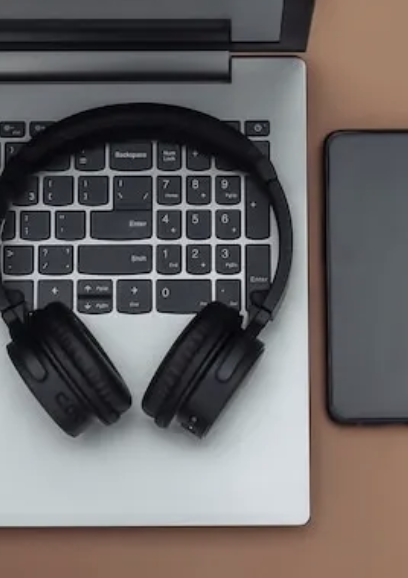
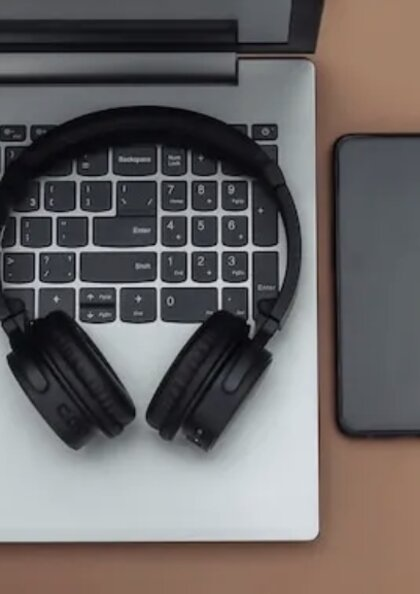
working carosel, dots need help

diff --git a/_layouts/default.html b/_layouts/default.html
@@ -1206,7 +1206,7 @@
             margin: var(--carousel-dots-margin) auto;
             width: 100%;
             position: absolute;
-            bottom: -30px;
+            bottom: -55px;
             left: 0;
             right: 0;
             z-index: 20;
@@ -1227,7 +1227,7 @@
           /* Projects Button */
           .projects-button-container {
             text-align: center;
-            margin: var(--button-margin-top) 0 var(--button-margin-bottom);
+            margin: calc(var(--button-margin-top) + 2rem) 0 var(--button-margin-bottom);
           }
           
           .button {

diff --git a/_plugins/image_resizer.rb b/_plugins/image_resizer.rb
@@ -1,0 +1,100 @@
+require 'fileutils'
+
+# This class handles image resizing during the Jekyll build process
+module Jekyll
+  class ImageResizer
+    # Configuration constants
+    TARGET_WIDTH = 420  # Carousel image width from CSS
+    TARGET_HEIGHT = 594 # Carousel image height from CSS
+    QUALITY = 85        # Output image quality (0-100)
+    
+    # Initialize with the Jekyll site
+    def initialize(site)
+      @site = site
+      @source_dir = File.join(site.source, 'assets', 'images', 'thumbnails')
+      @has_imagemagick = system('which convert > /dev/null 2>&1') || system('where convert > /dev/null 2>&1')
+    end
+    
+    # Process all images in the thumbnails directory
+    def process_images
+      # Skip if source directory doesn't exist
+      return unless Dir.exist?(@source_dir)
+      
+      if @has_imagemagick
+        process_with_imagemagick
+      else
+        log_warning("ImageMagick not found, skipping image resizing. Install ImageMagick for auto thumbnail resizing.")
+        log_warning("Hint: brew install imagemagick (on Mac) or visit https://imagemagick.org/script/download.php")
+      end
+    end
+    
+    private
+    
+    # Process images using ImageMagick via mini_magick gem
+    def process_with_imagemagick
+      begin
+        require 'mini_magick'
+      rescue LoadError
+        log_error("mini_magick gem not found, skipping image resizing")
+        return
+      end
+      
+      log_info("Starting thumbnail processing with ImageMagick")
+      
+      # Process each image in the thumbnails directory
+      Dir.glob(File.join(@source_dir, '*.{jpg,jpeg,png,gif}')).each do |img_path|
+        begin
+          # Get image filename
+          filename = File.basename(img_path)
+          log_info("Processing #{filename}")
+          
+          # Open image with MiniMagick
+          image = MiniMagick::Image.open(img_path)
+          
+          # Skip if image is already the right size
+          if image.width == TARGET_WIDTH && image.height == TARGET_HEIGHT
+            log_info("#{filename} already at target size, skipping")
+            next
+          end
+          
+          # Resize image to fill the target dimensions while maintaining aspect ratio
+          # and centering the crop to create a professional thumbnail effect
+          image.combine_options do |img|
+            img.resize "#{TARGET_WIDTH}x#{TARGET_HEIGHT}^"  # ^ ensures image fills dimensions
+            img.gravity "center"                           # Center the crop
+            img.extent "#{TARGET_WIDTH}x#{TARGET_HEIGHT}"  # Crop to exact dimensions
+            img.quality QUALITY.to_s                        # Set quality for file size optimization
+          end
+          
+          # Save the resized image back to the original location
+          image.write(img_path)
+          log_info("Resized #{filename} to #{TARGET_WIDTH}x#{TARGET_HEIGHT}")
+        rescue => e
+          log_error("Error processing #{filename}: #{e.message}")
+        end
+      end
+      
+      log_info("Completed thumbnail processing")
+    end
+    
+    # Logging helper methods
+    def log_info(message)
+      Jekyll.logger.info "ImageResizer:", message
+    end
+    
+    def log_warning(message)
+      Jekyll.logger.warn "ImageResizer:", message
+    end
+    
+    def log_error(message)
+      Jekyll.logger.error "ImageResizer:", message
+    end
+  end
+end
+
+# Hook into Jekyll build process
+Jekyll::Hooks.register :site, :after_init do |site|
+  # Create and run the image resizer
+  resizer = Jekyll::ImageResizer.new(site)
+  resizer.process_images
+end

diff --git a/_posts/2025-02-15-project2.md b/_posts/2025-02-15-project2.md
@@ -1,6 +1,6 @@
 ---
 layout: post
-featured: false
+featured: true
 title: "Portable Audio Interface"
 date: 2025-02-15
 project_code: "AUDIO"

diff --git a/_posts/2025-04-05-project4.md b/_posts/2025-04-05-project4.md
@@ -1,6 +1,6 @@
 ---
 layout: post
-featured: false
+featured: true
 title: "Modular Lighting System"
 date: 2025-04-05
 project_code: "LIGHT"
